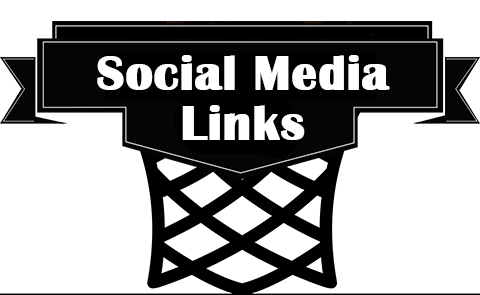
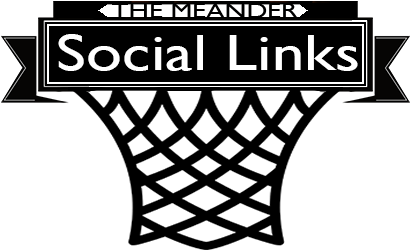
Lots of comments and finished background images, start of social links

diff --git a/js/burger.js b/js/burger.js
@@ -1,29 +1,41 @@
+/*
+////////////////////////////////////////////////////
+JS File for the functionality of the hamburger and embeded
+youtube video tab
+///////////////////////////////////////////////////
+*/
+
 var ham = document.querySelector(".burger");
 var bars = document.querySelector(".audioBar");
-var yous = document.querySelectorAll(".cellYou");
 var snd = document.getElementById("volum");
+
+//selecting all of the youtube cells tabs
+var yous = document.querySelectorAll(".cellYou");
+//temp variable to holding the video source to be reset on close to pause the video
 var temp;
+
 var audio = document.getElementById("aud");
 
 yous.forEach(you => {
 
   you.addEventListener("click", e => {
-
+    //checking if the yt vid has an actual embed code
     if(you.nextElementSibling.src != "https://www.youtube.com/embed/"){
-
+      //pause the audio when opening the yt vid to not interfere with its audio
       if(!audio.paused)
         audio.pause();
 
-      you.classList.toggle("cogglePOS");
+      //you.classList.toggle("cogglePOS");
+      //toggle the class which darkens the tabs background
       you.firstElementChild.classList.toggle("coggle");
 
-      //this is the iframe in the cell
+      //toggle to show on the iframe wrapper
       you.nextElementSibling.classList.toggle("hideVid");
-
+      //scroll the entire cell plus the video into a better view
       you.parentNode.scrollIntoView(false,{behavior: "smooth"});
-
+      //now show the iframe itself in the wrapper
       you.nextElementSibling.firstElementChild.classList.toggle("showVid");
-
+      //toggle the class that will turn the arrow up or down
       you.firstElementChild.lastElementChild.classList.toggle("youDown");
 
       //I did this after fooling around with the api for the youtube iframe api
@@ -41,7 +53,7 @@ yous.forEach(you => {
   });
 
 });
-
+//hamburger hides sound, audio bar and toggles the scrolling text animtaion
 ham.addEventListener("click", e => {
 
   ham.classList.toggle("ex");
@@ -52,8 +64,8 @@ ham.addEventListener("click", e => {
 
 });
 //stop animations from playing when the window is being resized
-//removes the jank look
-let resizeTimer;
+//removes the jank look of shifting elements
+var resizeTimer;
 window.addEventListener("resize", e => {
 
   document.body.classList.add("resize-animation-stopper");

diff --git a/css/mainPage.css b/css/mainPage.css
@@ -256,6 +256,14 @@ Podcast Grid and Cells
 
 }
 
+/*
+
+///////////////////////////////////////////////////////////
+Cell youtube video tab and iframe
+///////////////////////////////////////////////////////////
+
+*/
+
 .cellYou{
   /*
   border-color: rgba(0, 0, 0, 0.2);
@@ -280,6 +288,7 @@ Podcast Grid and Cells
   border-radius: 10px 10px 0px 0px;
   padding: 0.3rem;
   transition: 0.2s ease-in-out;
+  background-color: white;
 
 }
 
@@ -361,10 +370,69 @@ Social Media Links
 
 .socLinks{
 
-
+  position: fixed;
+  z-index: 10;
 
 }
 
+.socLinks img{
+
+  width: clamp(90px, 22vw, 200px);
+  padding-left: 5px;
+  cursor: pointer;
+
+}
+
+/*
+
+///////////////////////////////////////////////////////////
+Background images with animations
+///////////////////////////////////////////////////////////
+
+*/
+
+.bgImages{
+
+  position: fixed;
+  z-index: -1;
+
+}
+
+.basketball{
+
+  top: -10%;
+  left: -11%;
+  width: clamp(250px, 45vw, 450px);
+  animation: ball-rotate 240s infinite alternate;
+
+}
+
+.football{
+
+  bottom: -4%;
+  right: -4%;
+  width: clamp(250px, 45vw, 450px);
+  animation: ball-fall 200s infinite alternate;
+
+}
+
+@keyframes ball-rotate {
+   0%   {
+   transform: rotate(0deg) translateY(0px);
+   }
+   100%{
+     transform: rotate(360deg) translateY(75px);
+   }
+}
+
+@keyframes ball-fall {
+   0%   {
+   transform: translateX(0px) translateY(0px);
+   }
+   100%{
+     transform: translateX(-150px) translateY(150px);
+   }
+}
 
 /*
 
@@ -379,12 +447,6 @@ Media Queries
   html{
 
     font-size: 14px;
-
-  }
-
-  .grid{
-
-    margin: 0vw 2vw 5vw 2vw;
 
   }
 
@@ -455,6 +517,16 @@ Media Queries
   .cellYou{
 
     /*top: -32.4px;*/
+
+  }
+
+}
+
+@media screen and (max-width: 426px){
+
+  .homeImg{
+
+    padding-top: 35px;
 
   }
 

diff --git a/css/audioBar.css b/css/audioBar.css
@@ -312,6 +312,35 @@ Burger
 
 }
 
+/**************************************************************************
+Error and Success Messages
+**************************************************************************/
+#errorTxt{
+
+  font-family: livory, serif;
+  font-weight: 400;
+  font-style: normal;
+  font-size: 1.4rem;
+  text-align: center;
+  color:#e61936;
+
+}
+
+.cpyrght{
+
+  position: absolute;
+  bottom: 2%;
+  right: 2%;
+  background: red;
+  padding: 5px 15px;
+  font-size: 0.8rem;
+  font-family: cardea, serif;
+  font-weight: 400;
+  font-style: normal;
+  color: blue;
+
+}
+
 @media screen and (max-width: 769px){
 
   .volum{

diff --git a/js/audio.js b/js/audio.js
@@ -40,7 +40,7 @@ var seeking = false;
 //they were last on before muting and that specific volume icon
 var prevVol = 1.0;
 var preVolSymbol = "<ion-icon name='volume-high-outline'></ion-icon>";
-
+//var for the length of the title what is cut off in the audio bar
 var titleOffset = 0;
 
 

diff --git a/php/view.php b/php/view.php
@@ -2,16 +2,16 @@
 /*
 
 PHP file for obtaining all of the podcasts data in the db and
-outputting them into a the format to be displayed on the homepage 
+outputting them into a the format to be displayed on the homepage
 
 */
 
 //header("Set-Cookie: cname=cvalue; SameSite=none; Secure");
 
 require 'dbCON.php';
-
+//checking for a successful db connection
 if (!$con) {
-  echo "<h2 class='err'>Oops might be the internet or me!</h2>";
+  echo "<h3 id='errorTxt'>Oops might be the internet or me!</h3>";
 }
 else
 {
@@ -21,13 +21,13 @@ else
   $print = "";
 
   if (mysqli_num_rows($result)!=0) {
-
+    //create each podcasts cell and append it to the string that will be dumped on the page
     while($data = $result->fetch_assoc()){
 
-      //print_r($data);
+      //create the youtube video path from the embed string
       $src = "https://www.youtube.com/embed/";
       $src = $src . $data["ytEmbed"];
-
+      //create the individual cell from all the data relating to the podcast
       $print .= "<div class='cell'>
 
         <div class='cellYou'>
@@ -58,10 +58,10 @@ else
 
   }else{
 
-    $print = "<h2 class='err'>Looks like its the internet!!!!</h2>";
+    $print = "<h3 id='errorTxt'>Looks like its the internet!!!!</h3>";
 
   }
-
+  //print the string containing all the cells on the homepage
   echo $print;
 
   $con->close();

diff --git a/index.php b/index.php
@@ -20,9 +20,9 @@
 
 </head>
 <body>
-
+    
     <div class="socLinks">
-
+      <img src="images/socialLinks.png">
     </div>
 
     <!-------------------------------------------->
@@ -126,6 +126,18 @@
 
     <!-------------------------------------------->
     <!---End of Burger and Volume Bar------>
+    <!-------------------------------------------->
+
+    <!-------------------------------------------->
+    <!---Start of background images------>
+    <!-------------------------------------------->
+
+    <img class="bgImages basketball" src="images/basketball.png">
+
+    <img class="bgImages football" src="images/football.png">
+
+    <!-------------------------------------------->
+    <!---End of background images------>
     <!-------------------------------------------->
 
     <script type="module" src="https://unpkg.com/ionicons@5.5.2/dist/ionicons/ionicons.esm.js"></script>

diff --git a/php/dbCON.php b/php/dbCON.php
@@ -1,4 +1,9 @@
 <?php
+/*
+
+PHP file for the connection string to the database
+
+*/
 
 $con = @mysqli_connect("localhost", "root", "", "meander");
 
